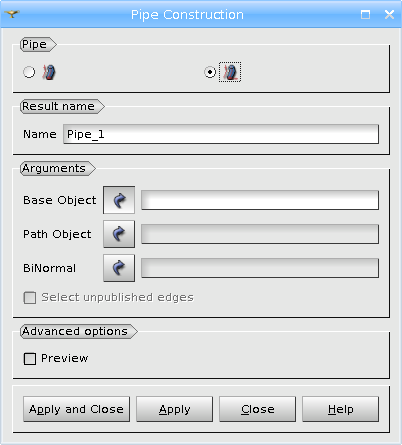
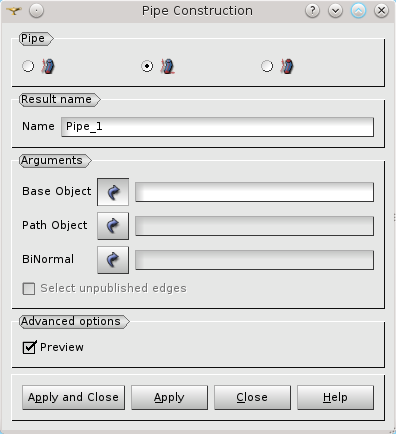
0022289: EDF 2623 GEOM: Make "MakePipeWithDifferentsSections" available from GUI (merge from V7_main)

Changed region(s): [[0.0, 0.0, 1.0, 1.0]]

diff --git a/src/GEOMBase/GEOMBase.h b/src/GEOMBase/GEOMBase.h
@@ -31,6 +31,7 @@
 
 // SALOME Includes
 #include <GEOM_AISShape.hxx>
+#include "GEOM_GenericObjPtr.h"
 
 // IDL Headers
 #include <SALOMEconfig.h>
@@ -133,6 +134,8 @@ public :
 
   /* Publish sub-shape under the main object */
   static void         PublishSubObject( GEOM::GEOM_Object_ptr object );
+
+  static void         Synchronize( QList<GEOM::GeomObjPtr>& left, QList<GEOM::GeomObjPtr>& right );
 };
 
 #endif // GEOMBASE_H

diff --git a/src/AdvancedGUI/AdvancedGUI_SmoothingSurfaceDlg.h b/src/AdvancedGUI/AdvancedGUI_SmoothingSurfaceDlg.h
@@ -50,7 +50,6 @@ protected:
 private:
   void                               Init();
   void                               enterEvent( QEvent* );
-  void                               synchronize( QList<GEOM::GeomObjPtr>& left, QList<GEOM::GeomObjPtr>& right );
 
 private:
   DlgRef_1Sel*                 GroupPoints;
